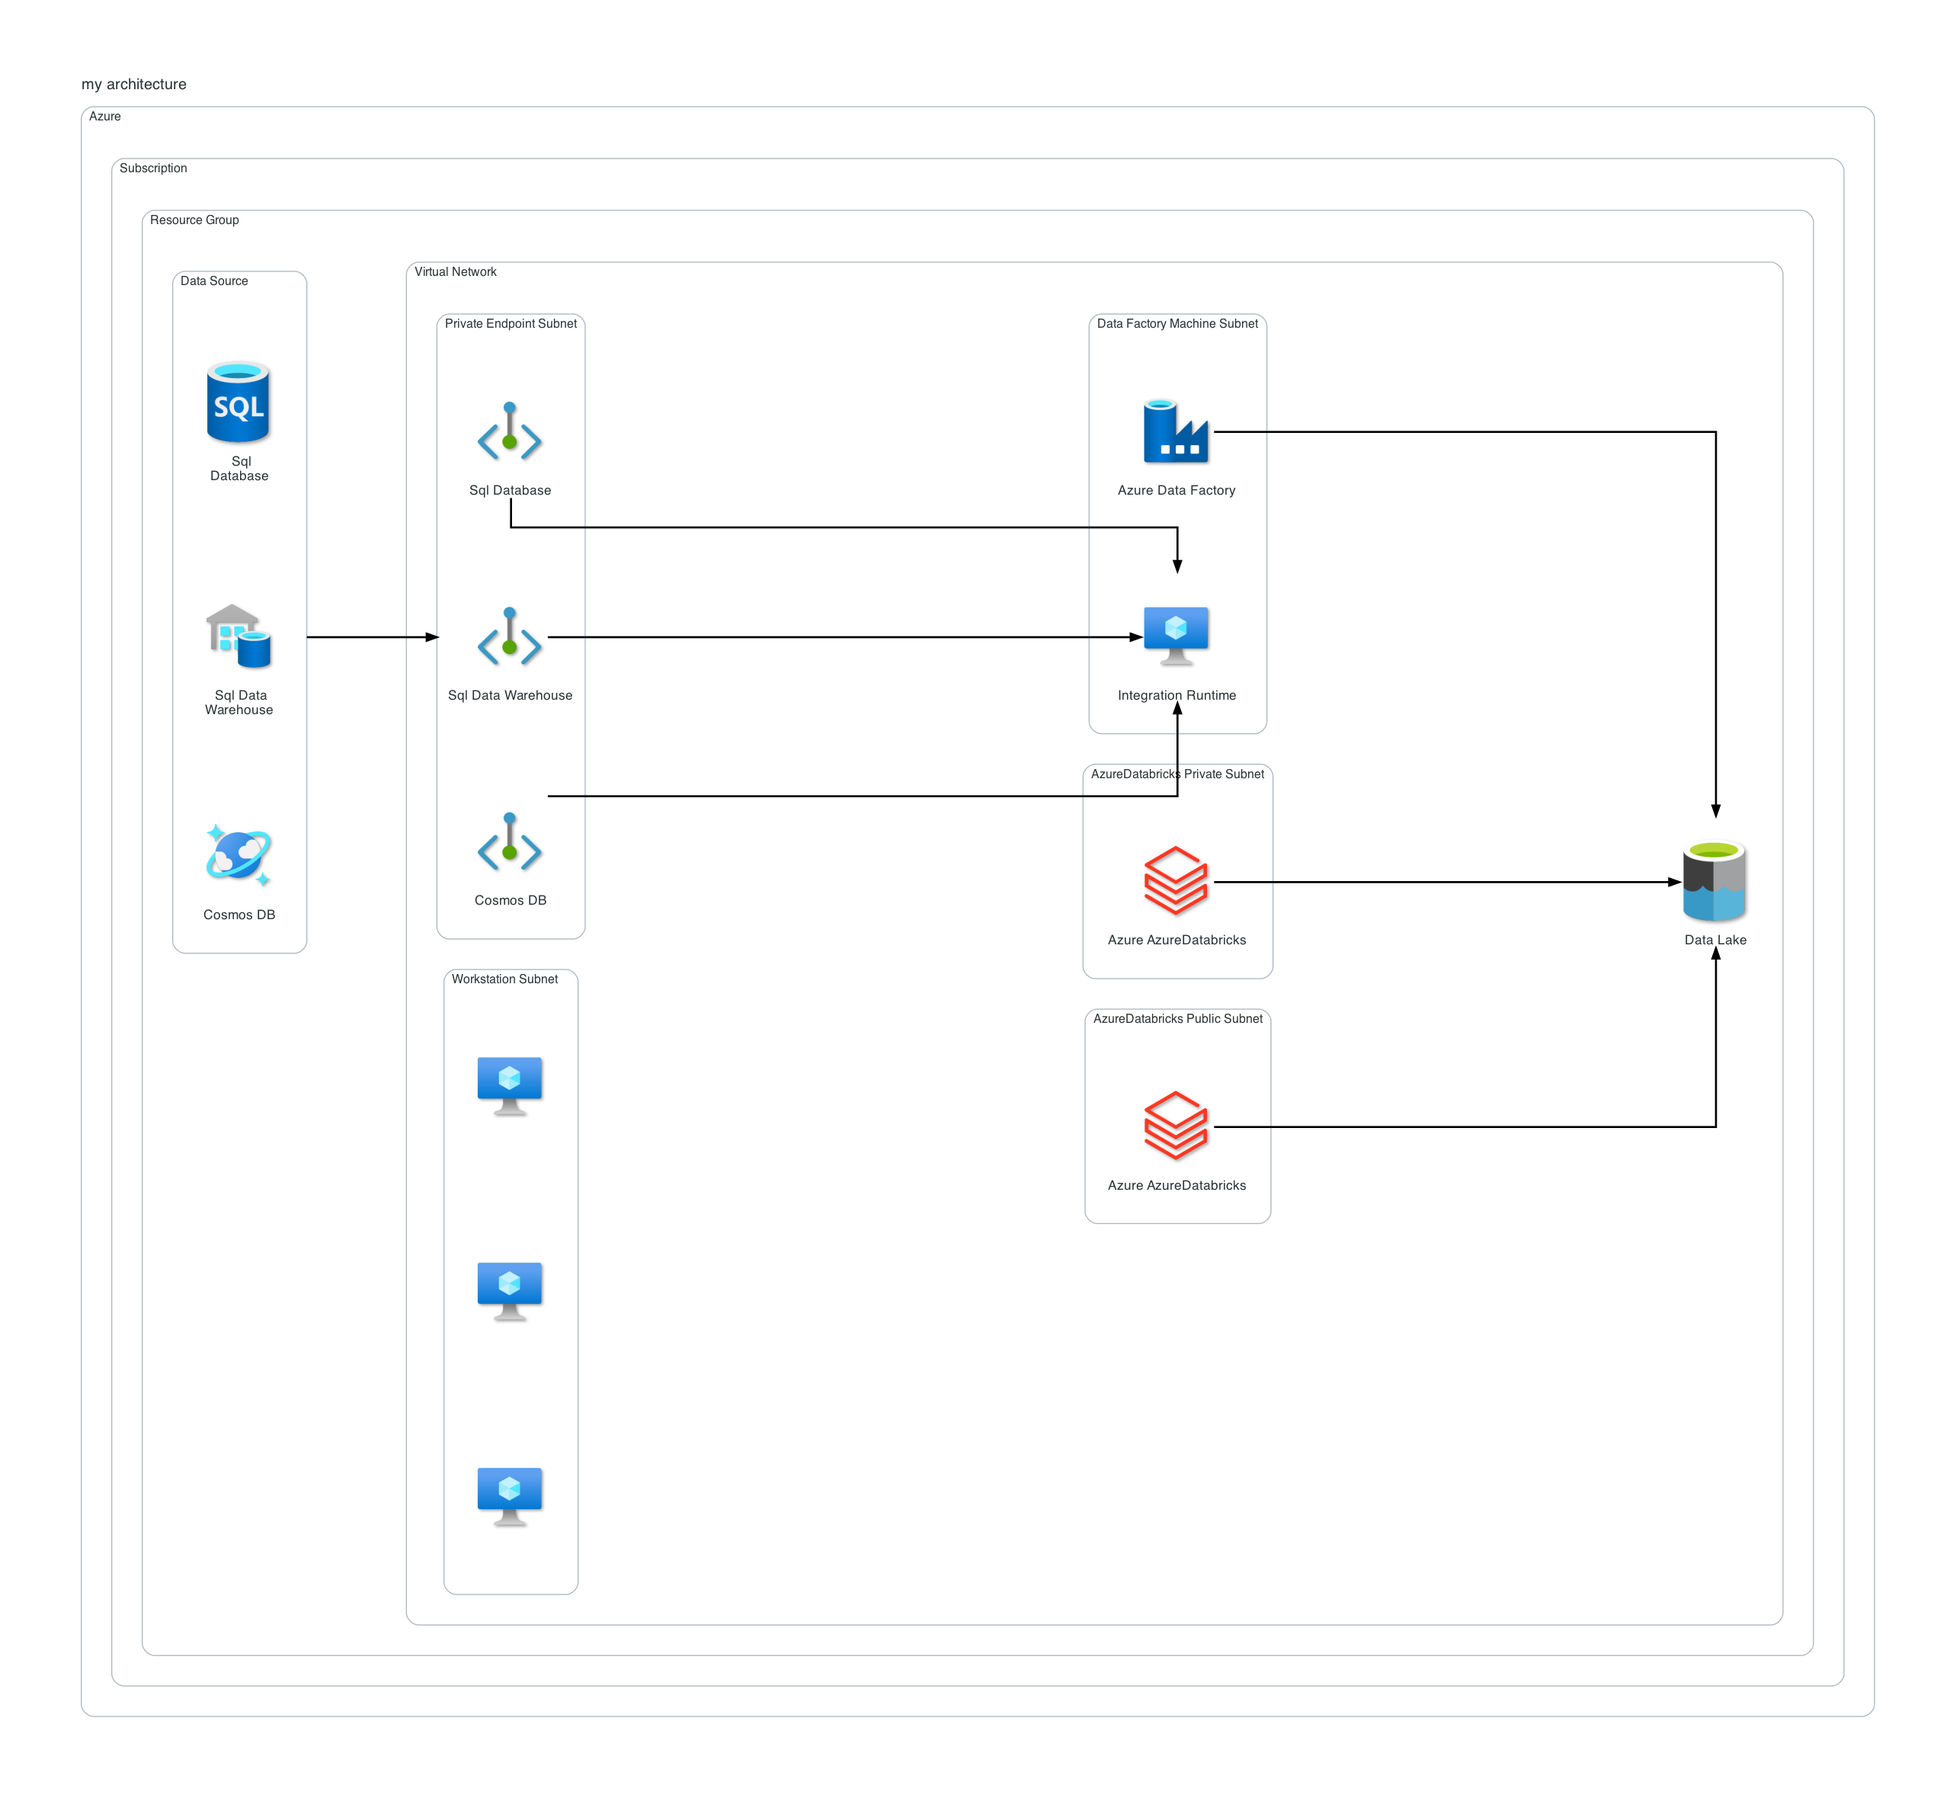
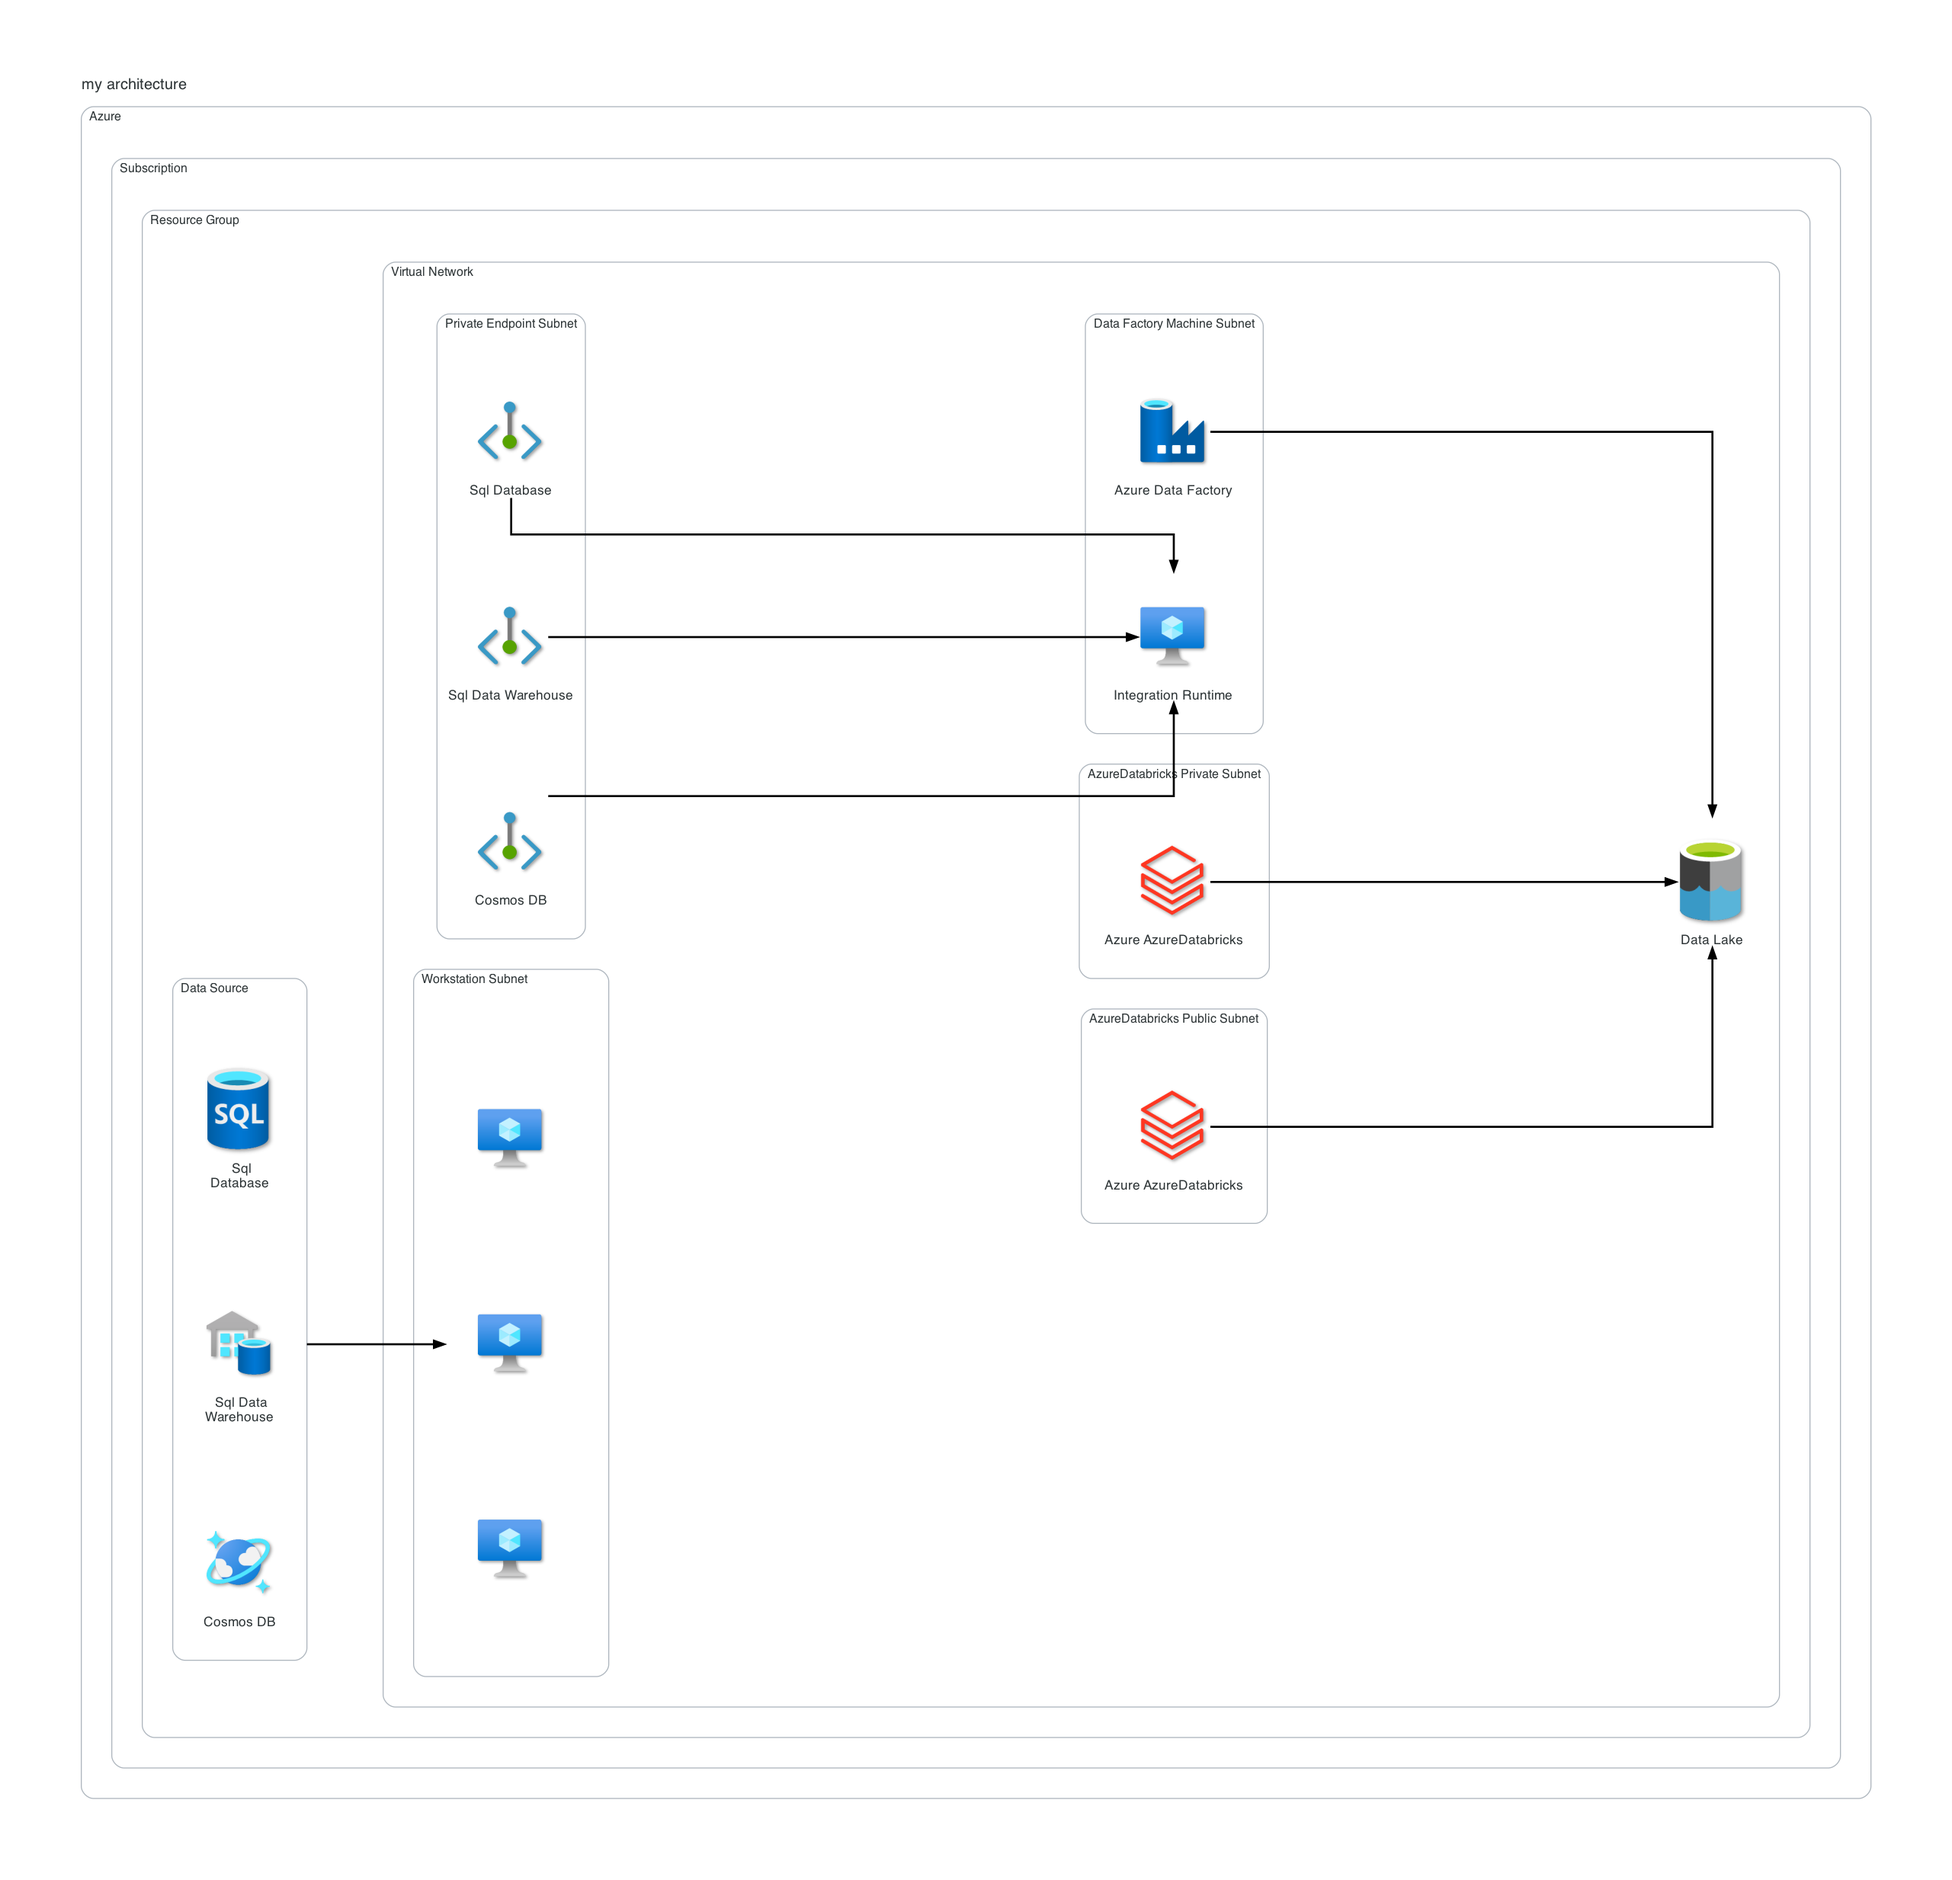
updated code to allow for groups to be connected to each other with an edge or another cluster

diff --git a/architectures/core/__init__.py b/architectures/core/__init__.py
@@ -362,21 +362,21 @@ class Edge():
         else:
             self._node = end_node
 
-        if isinstance(start_node, Cluster) and isinstance(end_node, Node):
+        if isinstance(start_node, (Cluster, Group)) and isinstance(end_node, Node):
             cluster = start_node
             node_dict = get_node()
             center_node_index = round(len(node_dict[start_node])/2) - 1
             start_node = node_dict[start_node][center_node_index][0]
             self.edge_attrs.update({"ltail": cluster.name})
             self._node._graph.edge(start_node, end_node, **self.edge_attrs)
-        elif isinstance(start_node, Node) and isinstance(end_node, Cluster):
+        elif isinstance(start_node, Node) and isinstance(end_node, (Cluster, Group)):
             cluster = end_node
             node_dict = get_node()
             center_node_index = round(len(node_dict[end_node])/2) - 1
             end_node = node_dict[end_node][center_node_index][0]
             self.edge_attrs.update({"lhead": cluster.name})
             self._node._graph.edge(start_node, end_node, **self.edge_attrs)
-        elif isinstance(start_node, Cluster) and isinstance(end_node, Cluster):
+        elif isinstance(start_node, (Cluster, Group)) and isinstance(end_node, (Cluster, Group)):
             start_cluster = start_node
             end_cluster = end_node
             node_dict = get_node()

diff --git a/big-data.py b/big-data.py
@@ -31,9 +31,10 @@ with Graph("my architecture", theme=theme, show=True):
                         data_factory_vm = VirtualMachine("Integration Runtime")
 
                     with Cluster("Workstation Subnet") as workstation_subnet:
-                        vm_1 = VirtualMachine("")
-                        vm_2 = VirtualMachine("")
-                        vm_3 = VirtualMachine("")
+                        with Group() as group_test:
+                            vm_1 = VirtualMachine("")
+                            vm_2 = VirtualMachine("")
+                            vm_3 = VirtualMachine("")
 
                     with Cluster("AzureDatabricks Private Subnet") as azure_databricks_private_subnet:
                         private_azure_databricks = AzureDatabricks("Azure AzureDatabricks")
